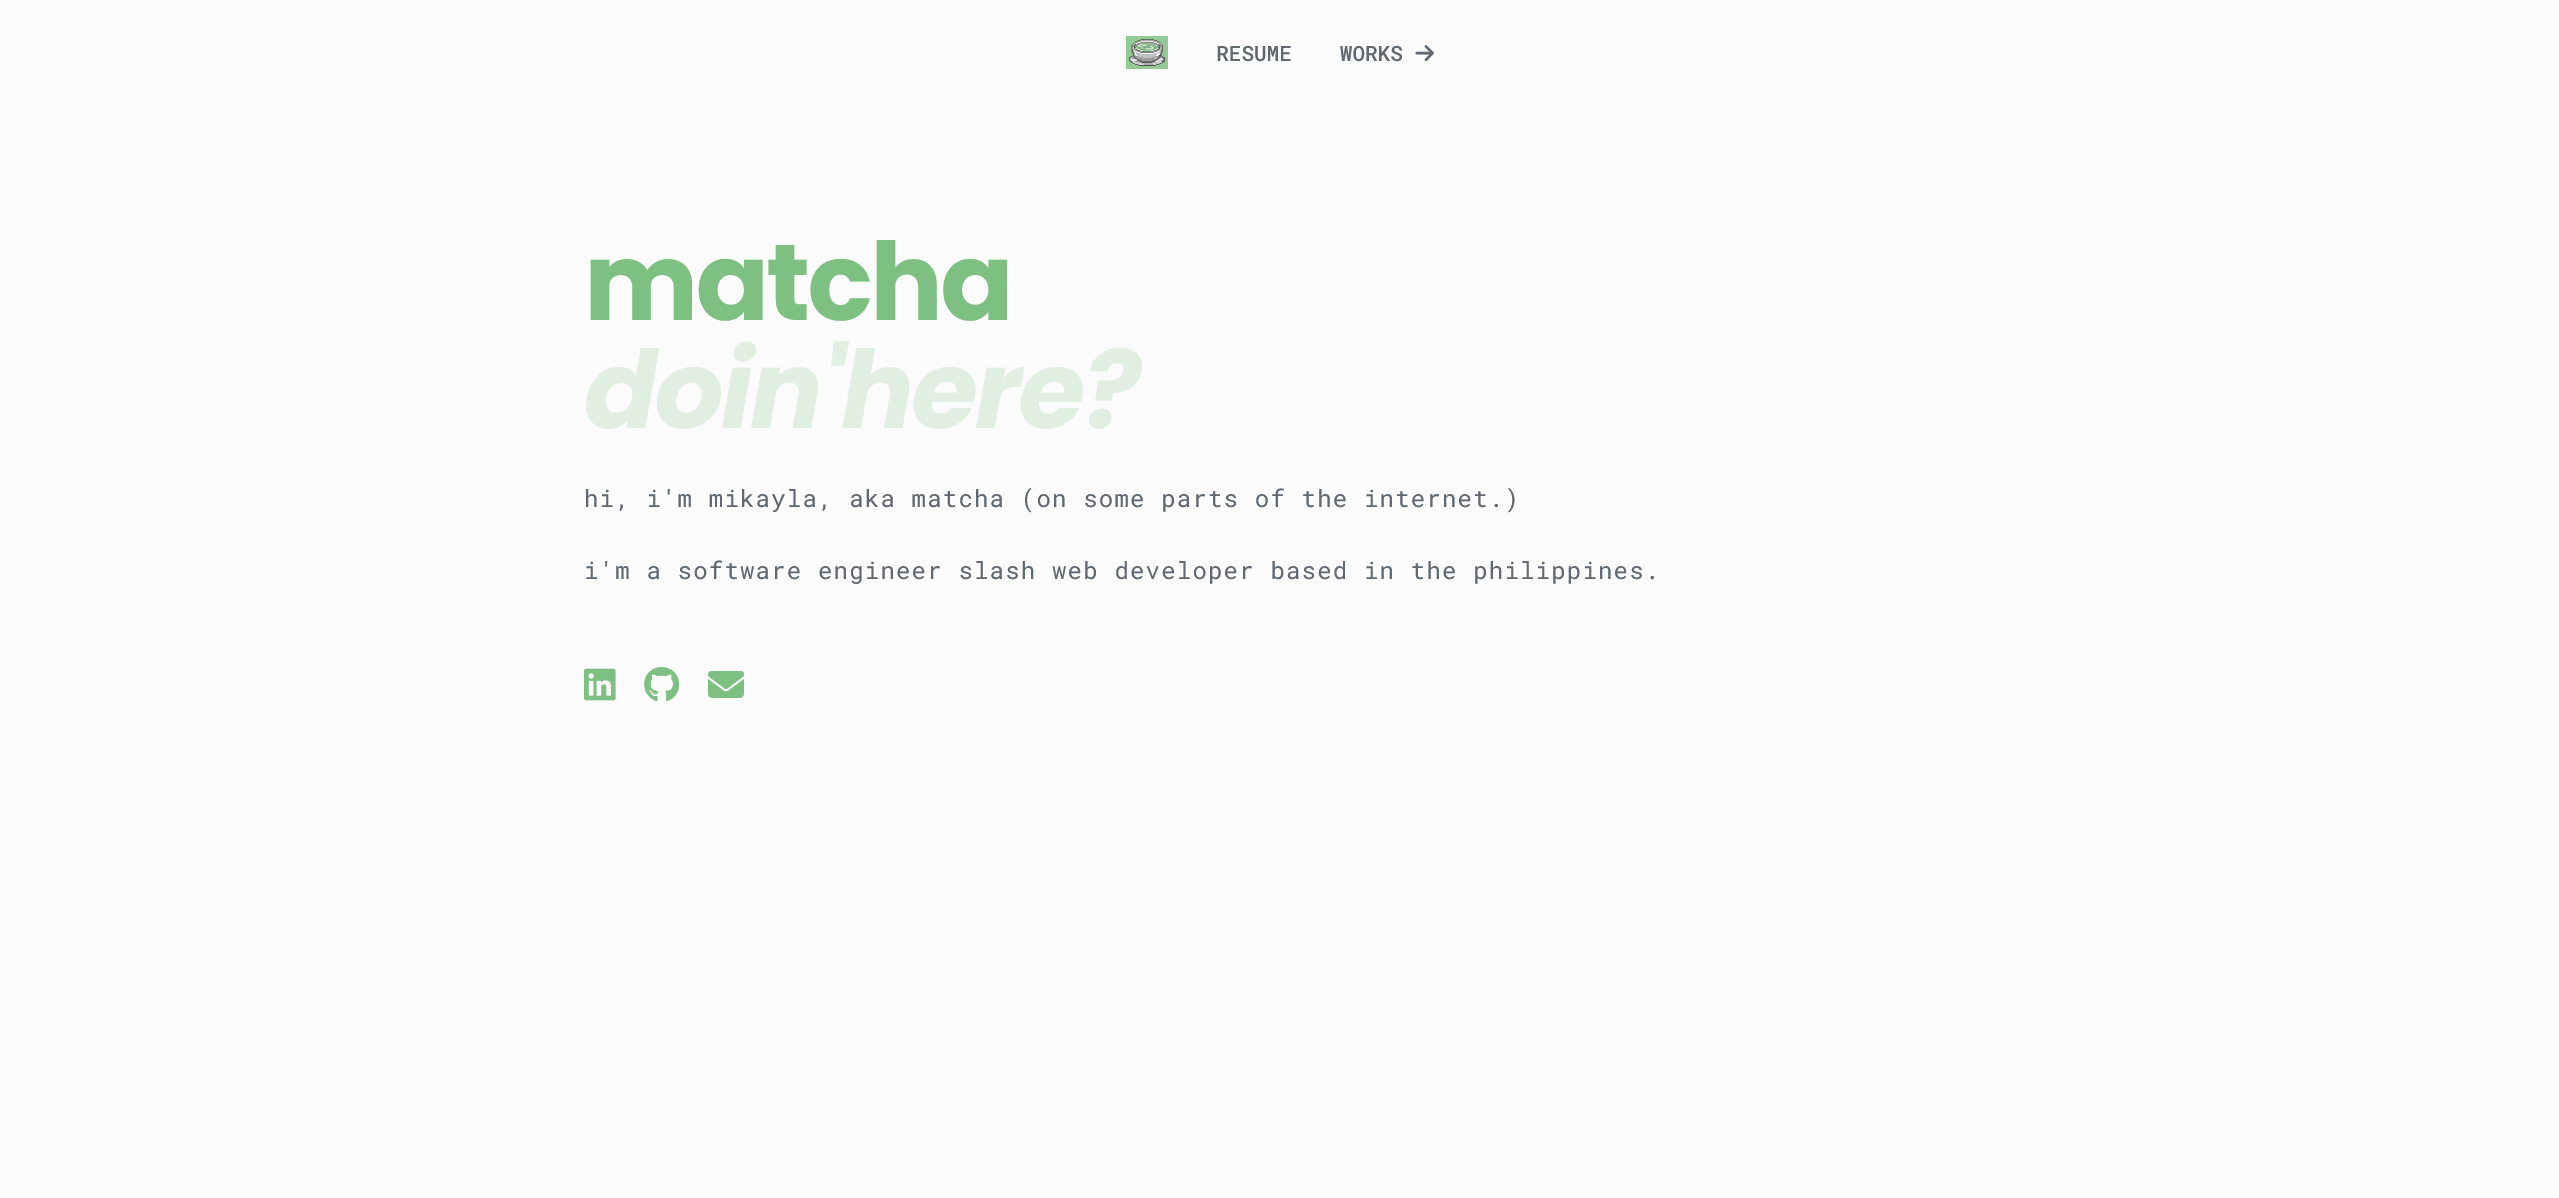
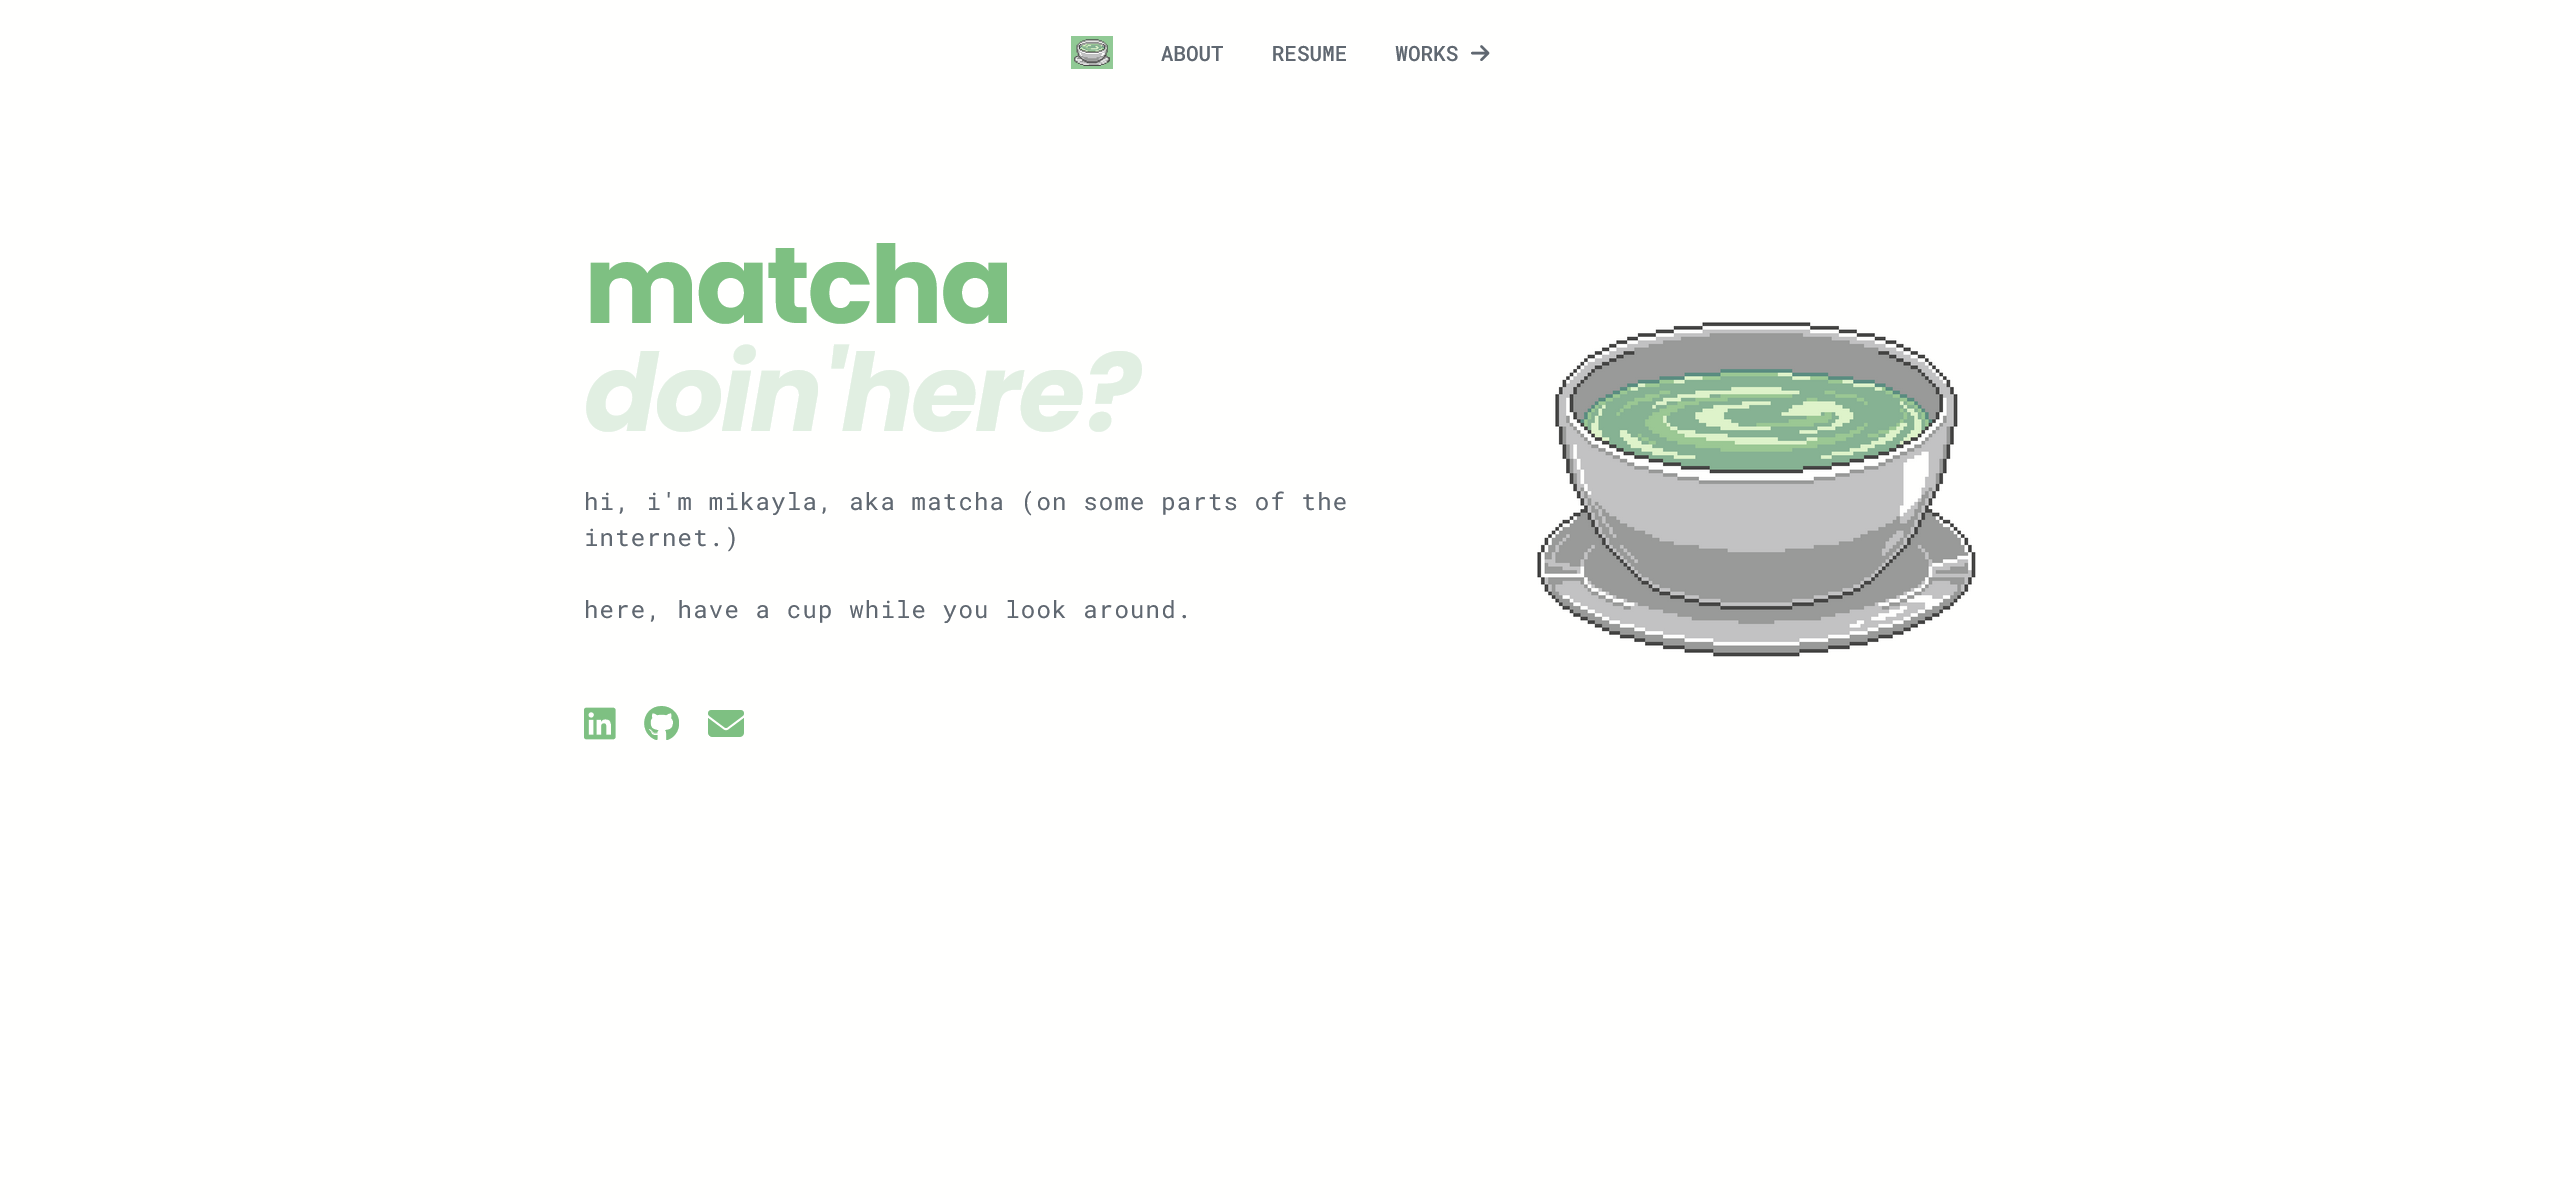
update content

diff --git a/index.html b/index.html
@@ -44,8 +44,7 @@
                     <p class="text-sm text-paynes-gray font-normal font-mono lowercase tracking-wider sm:text-sm md:text-base">
                         Hi, I'm Mikayla, aka matcha (on some parts of the internet.)<br>
                         <br>
-                        <!-- Here, have a cup while you look around. -->
-                        I'm a software engineer slash web developer based in the Philippines. 
+                        Here, have a cup while you look around.
                     </p>
                     <p class="mt-12 text-2xl text-paynes-gray font-normal font-mono lowercase tracking-widest">
                         <a href="https://www.linkedin.com/in/mikayla-lopez/" target="_blank" title="Linkedin" class="text-mantis hover:text-honeydew"><i class="fa-brands fa-linkedin"></i></a>
@@ -55,9 +54,9 @@
                     </p>
                 </div>
                 
-                <!-- <div class="flex text-center justify-center">
-                    <img src="assets/matcha/128x128.png" width="300" />
-                </div> -->
+                <div class="flex text-center justify-center">
+                    <img src="assets/matchapx-2.png" width="300" />
+                </div>
             </div>
         </section>
 
@@ -71,10 +70,10 @@
                 <div class="max-w-screen-lg mx-auto flex flex-col items-center sm:flex-row gap-6 py-10 sm:text-center md:text-left">
                     <div class="relative">
                         <h3 class="text-2xl font-heading font-extrabold text-matcha">Mikayla Lopez</h3>
-                        <p class="font-normal font-mono text-base pt-4 lowercase">
-                            Software engineer by day for almost 4 years, frontend dev at heart since 11 years old.
-                            <br>
-                            Lorem ipsum dolor sit amet, consectetur adipiscing elit. Ut a justo non metus malesuada lobortis quis sed mauris. Nunc tincidunt ex nisi, finibus posuere mi ullamcorper eget. Nulla in nisl at dui interdum volutpat. Mauris sed quam sed neque dignissim blandit eu in enim. Suspendisse in risus sit amet nisi elementum consequat non et lorem. Integer nec mollis metus, vitae maximus ex. Vestibulum venenatis sit amet ante ut suscipit. Vestibulum ullamcorper id sem vitae dictum. Nullam eleifend feugiat sem, mollis laoreet turpis luctus eu. 
+                        <p class="font-normal font-mono text-base pt-4">
+                            Software engineer by day, frontend dev at heart (since 11 years old).
+                            
+                            <br>Based in the Philippines.
                         </p>
                     </div>
                 </div>
@@ -91,13 +90,13 @@
                 <div class="relative flex flex-col items-center py-10 overflow-auto max-w-screen-lg justify-between space-x-0 space-y-10 md:space-x-6 md:space-y-2 mx-auto text-left">
                     <div class="relative pb-10">
                         <p class="text-base lg:text-base mb-6">
-                            As of July 2024, I'm working as a frontend developer for UK biotech startup, <a href="https://www.sava.health/" target="_blank" class="text-mantis underline">SAVA</a>.
+                            As of July 2024, my full time job is being a frontend developer for UK biotech startup, <a href="https://www.sava.health/" target="_blank" class="text-mantis underline">SAVA</a>.
                         </p>
                         <p  class="text-base lg:text-base mb-6">
-                            My tech stack includes <span class="text-mantis">.NET/C#</span>, <span class="text-mantis">Javascript</span>, and <span class="text-mantis">SQL</span> (<span class="text-mantis">Microsoft SQL Server/PostgreSQL</span>).
-                            I have worked with <span class="text-mantis">Ruby on Rails</span> and <span class="text-mantis">Python/Django</span>. Others that I've used in previous projects include <span class="text-mantis">PHP</span>, via <span class="text-mantis">Laravel</span> and <span class="text-mantis">Wordpress</span>.
+                            My tech stack includes <span class="text-mantis">.NET/C#</span>, <span class="text-mantis">Javascript</span>, and <span class="text-mantis">SQL</span> (<span class="text-mantis">Microsoft SQL Server</span> and <span class="text-mantis">PostgreSQL</span>).
+                            I have also worked with <span class="text-mantis">Ruby on Rails</span> and <span class="text-mantis">Python/Django</span>.
                             <br><br>
-                            I'm currently immersing myself more in frontend development to expand my stack and skillset, using <span class="text-mantis">VueJS</span> and <span class="text-mantis">Tailwind</span>, and looking to take a deeper dive into <span class="text-mantis">UI/UX design</span> by designing as many websites as I humanly can.
+                            I'm currently immersing myself more in frontend development to expand my stack and skillset. I'm learning <span class="line-through">VueJS</span> <span class="text-mantis">Svelte</span>, sharpening my <span class="text-mantis">Tailwind</span>, and looking to take a deeper dive into <span class="text-mantis">UI/UX design</span> by designing as many websites as I humanly can.
                         </p>
                         <p class="text-base">
                             <br>Think I'm a good fit for a role, or have any questions for me? Shoot me a message at:

diff --git a/src/css/tailwind.css b/src/css/tailwind.css
@@ -443,7 +443,7 @@ html,
 }
 
 p {
-  font-size: 0.8rem;
+  font-size: 0.9rem;
 }
 
 *, ::before, ::after {
@@ -829,19 +829,14 @@ img.showcase-image {
   margin-bottom: 1rem;
 }
 
-.my-auto {
-  margin-top: auto;
-  margin-bottom: auto;
-}
-
-.my-8 {
-  margin-top: 2rem;
-  margin-bottom: 2rem;
-}
-
 .my-6 {
   margin-top: 1.5rem;
   margin-bottom: 1.5rem;
+}
+
+.my-auto {
+  margin-top: auto;
+  margin-bottom: auto;
 }
 
 .mb-1 {
@@ -876,12 +871,12 @@ img.showcase-image {
   margin-top: 0.75rem;
 }
 
-.mt-auto {
-  margin-top: auto;
-}
-
 .mt-4 {
   margin-top: 1rem;
+}
+
+.mt-auto {
+  margin-top: auto;
 }
 
 .box-border {
@@ -936,10 +931,6 @@ img.showcase-image {
   height: 84px;
 }
 
-.h-auto {
-  height: auto;
-}
-
 .h-full {
   height: 100%;
 }
@@ -966,22 +957,6 @@ img.showcase-image {
 
 .w-full {
   width: 100%;
-}
-
-.w-\[400px\] {
-  width: 400px;
-}
-
-.w-\[500px\] {
-  width: 500px;
-}
-
-.w-\[600px\] {
-  width: 600px;
-}
-
-.w-\[300px\] {
-  width: 300px;
 }
 
 .max-w-\[278px\] {
@@ -1074,10 +1049,6 @@ img.showcase-image {
   grid-template-columns: repeat(7, minmax(0, 1fr));
 }
 
-.flex-row {
-  flex-direction: row;
-}
-
 .flex-col {
   flex-direction: column;
 }
@@ -1144,28 +1115,10 @@ img.showcase-image {
   margin-bottom: calc(2.5rem * var(--tw-space-y-reverse));
 }
 
-.space-x-3 > :not([hidden]) ~ :not([hidden]) {
-  --tw-space-x-reverse: 0;
-  margin-right: calc(0.75rem * var(--tw-space-x-reverse));
-  margin-left: calc(0.75rem * calc(1 - var(--tw-space-x-reverse)));
-}
-
-.space-y-1 > :not([hidden]) ~ :not([hidden]) {
-  --tw-space-y-reverse: 0;
-  margin-top: calc(0.25rem * calc(1 - var(--tw-space-y-reverse)));
-  margin-bottom: calc(0.25rem * var(--tw-space-y-reverse));
-}
-
 .space-y-3 > :not([hidden]) ~ :not([hidden]) {
   --tw-space-y-reverse: 0;
   margin-top: calc(0.75rem * calc(1 - var(--tw-space-y-reverse)));
   margin-bottom: calc(0.75rem * var(--tw-space-y-reverse));
-}
-
-.space-y-0 > :not([hidden]) ~ :not([hidden]) {
-  --tw-space-y-reverse: 0;
-  margin-top: calc(0px * calc(1 - var(--tw-space-y-reverse)));
-  margin-bottom: calc(0px * var(--tw-space-y-reverse));
 }
 
 .overflow-auto {
@@ -1544,6 +1497,10 @@ img.showcase-image {
   text-decoration-line: underline;
 }
 
+.line-through {
+  text-decoration-line: line-through;
+}
+
 .opacity-0 {
   opacity: 0;
 }
@@ -1797,10 +1754,6 @@ img.showcase-image {
     width: 300px;
   }
 
-  .sm\:w-\[400px\] {
-    width: 400px;
-  }
-
   .sm\:flex-row {
     flex-direction: row;
   }
@@ -1813,18 +1766,8 @@ img.showcase-image {
     align-items: center;
   }
 
-  .sm\:justify-start {
-    justify-content: flex-start;
-  }
-
   .sm\:justify-center {
     justify-content: center;
-  }
-
-  .sm\:space-y-3 > :not([hidden]) ~ :not([hidden]) {
-    --tw-space-y-reverse: 0;
-    margin-top: calc(0.75rem * calc(1 - var(--tw-space-y-reverse)));
-    margin-bottom: calc(0.75rem * var(--tw-space-y-reverse));
   }
 
   .sm\:space-x-0 > :not([hidden]) ~ :not([hidden]) {
@@ -1871,12 +1814,6 @@ img.showcase-image {
     --tw-space-y-reverse: 0;
     margin-top: calc(0.5rem * calc(1 - var(--tw-space-y-reverse)));
     margin-bottom: calc(0.5rem * var(--tw-space-y-reverse));
-  }
-
-  .md\:space-y-1 > :not([hidden]) ~ :not([hidden]) {
-    --tw-space-y-reverse: 0;
-    margin-top: calc(0.25rem * calc(1 - var(--tw-space-y-reverse)));
-    margin-bottom: calc(0.25rem * var(--tw-space-y-reverse));
   }
 
   .md\:px-12 {

diff --git a/works/index.html b/works/index.html
@@ -46,7 +46,7 @@
                     <!-- <h4 class="font-mono uppercase text-paynes-gray text-xl tracking-tight">index</h1> -->
                 </div>
                 <div class="relative">
-                    <p>Here lies my works, ranging from contract jobs to personal works, sorted by most recent. Please select a category above to start!</p>
+                    <p class="text-base">Here lies my works, ranging from contract jobs to personal works, sorted by most recent. Please select a category above to start!</p>
                 </div>
             </div>
         </section>
@@ -150,7 +150,7 @@
                             <p>March 2022 - May 2022</p>
                             <p>
                                 <br>
-                                A web app built on Wordpress. Design inspired by Airbnb.
+                                A web app built on Wordpress. Card design inspired by Airbnb.
                             </p>
                         </div>
                     </div>

diff --git a/src/css/input-tailwind.css b/src/css/input-tailwind.css
@@ -20,7 +20,7 @@
     }
 
     p {
-        @apply text-[0.8rem];
+        @apply text-[0.9rem];
     }
 }
 
